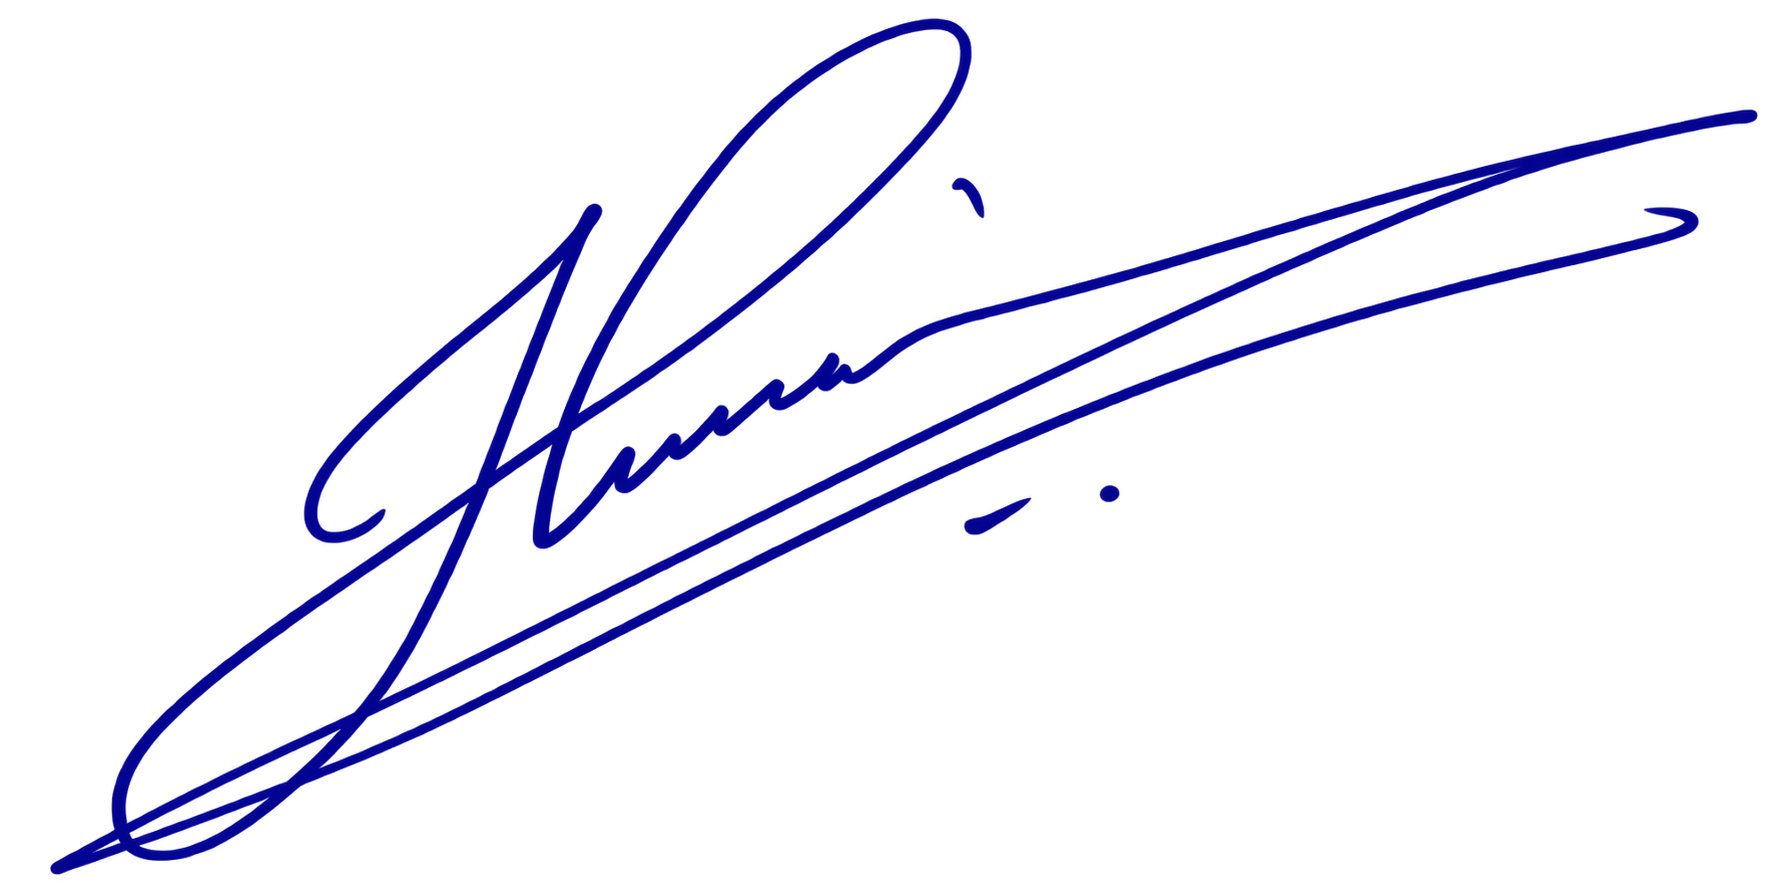
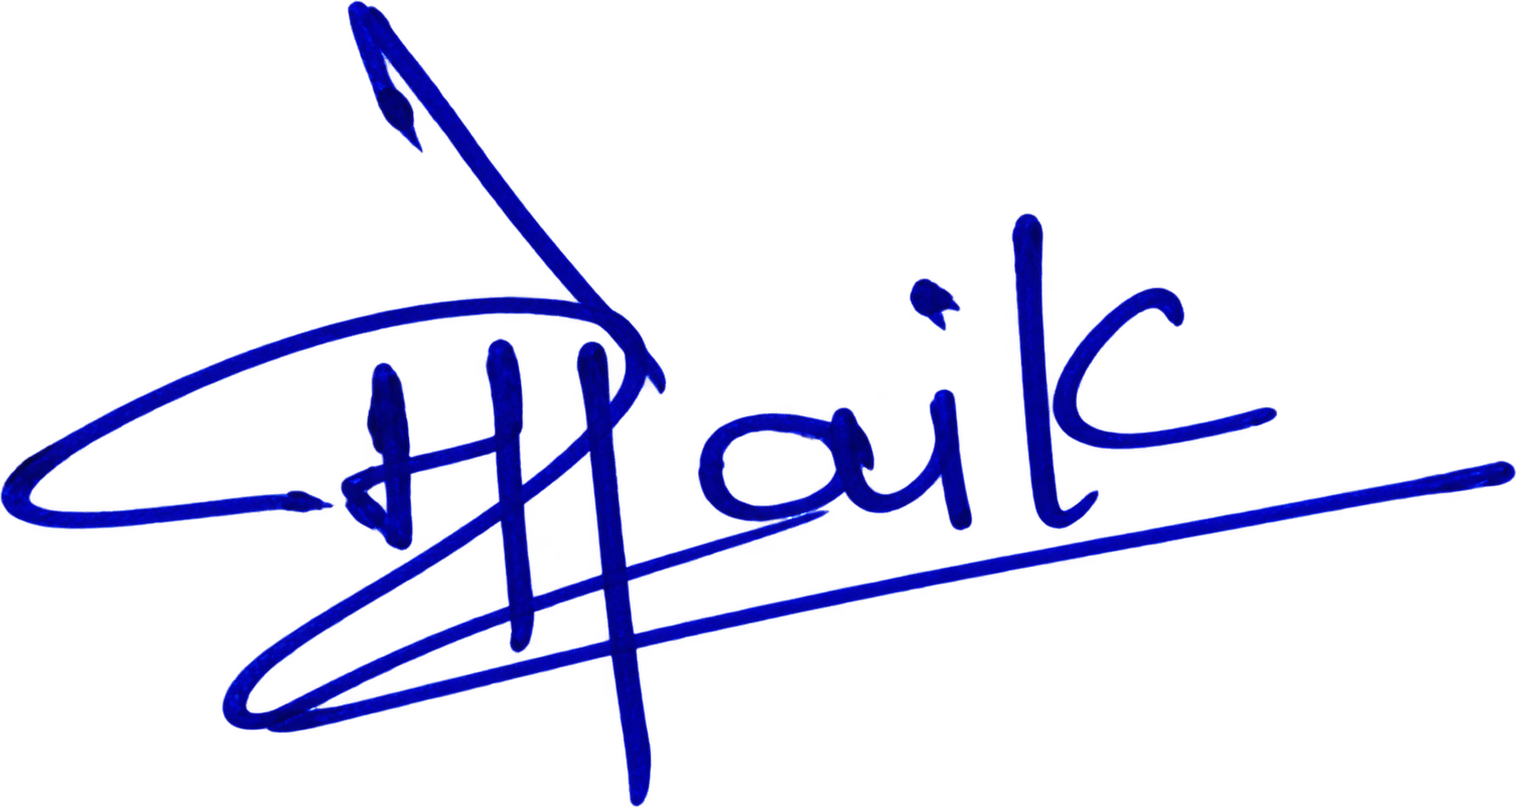
feat(testing): update Approved By signature with Moksha Naik signature

diff --git a/frontend/modules/production/components/TestCertificateDocument.tsx b/frontend/modules/production/components/TestCertificateDocument.tsx
@@ -390,14 +390,16 @@ export default function TestCertificateDocument({ report, id = 'test-certificate
 
                 {isApproved && report.approvedBySignature !== false ? (
                   <img
-                    src="/himalaya-signature.png"
+                    src="/moksha_sign.png"
                     alt="Authorized Signature"
                     className={styles.signatureImg}
                     crossOrigin="anonymous"
                     onError={(e) => {
                       const target = e.target as HTMLImageElement;
-                      if (!target.src.includes('ref2.png')) {
-                        target.src = '/ref2.png';
+                      if (!target.src.includes('moksha-signature.png')) {
+                        target.src = '/moksha-signature.png';
+                      } else if (!target.src.includes('himalaya-signature.png')) {
+                        target.src = '/himalaya-signature.png';
                       }
                     }}
                   />

diff --git a/frontend/modules/production/components/TestCertificateDocument.module.css b/frontend/modules/production/components/TestCertificateDocument.module.css
@@ -666,11 +666,12 @@
 }
 
 .signatureImg {
-  height: 38px;
+  height: 40px;
   width: auto;
-  max-width: 120px;
+  max-width: 130px;
   object-fit: contain;
   flex-shrink: 0;
+  mix-blend-mode: multiply;
 }
 
 .pendingNotice {
